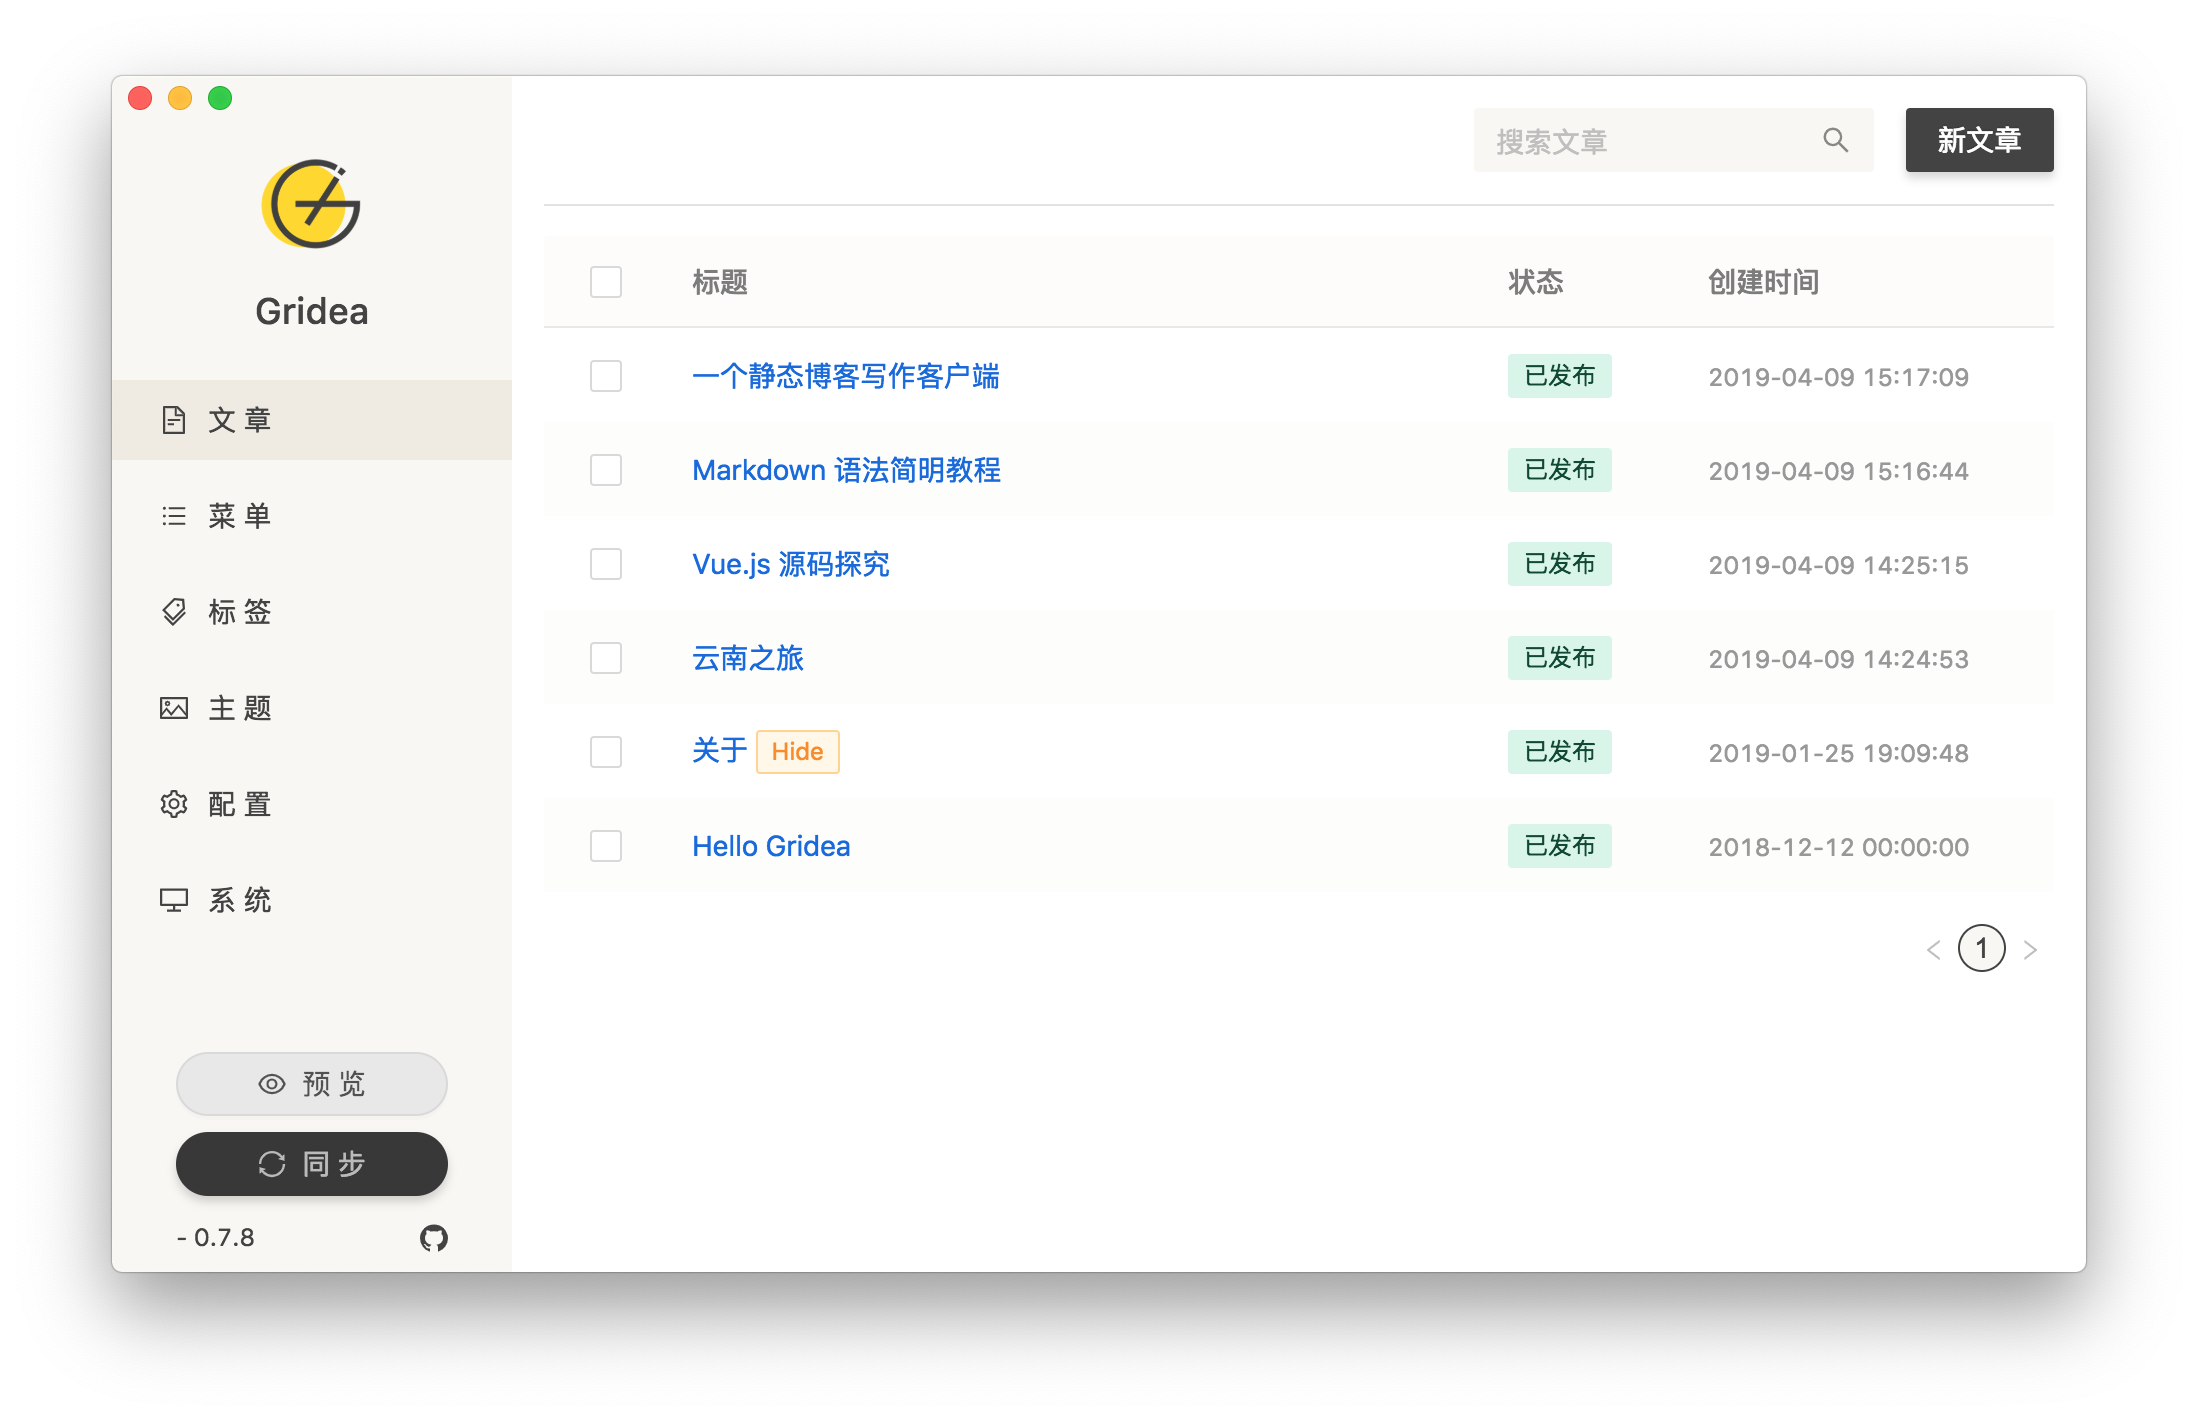
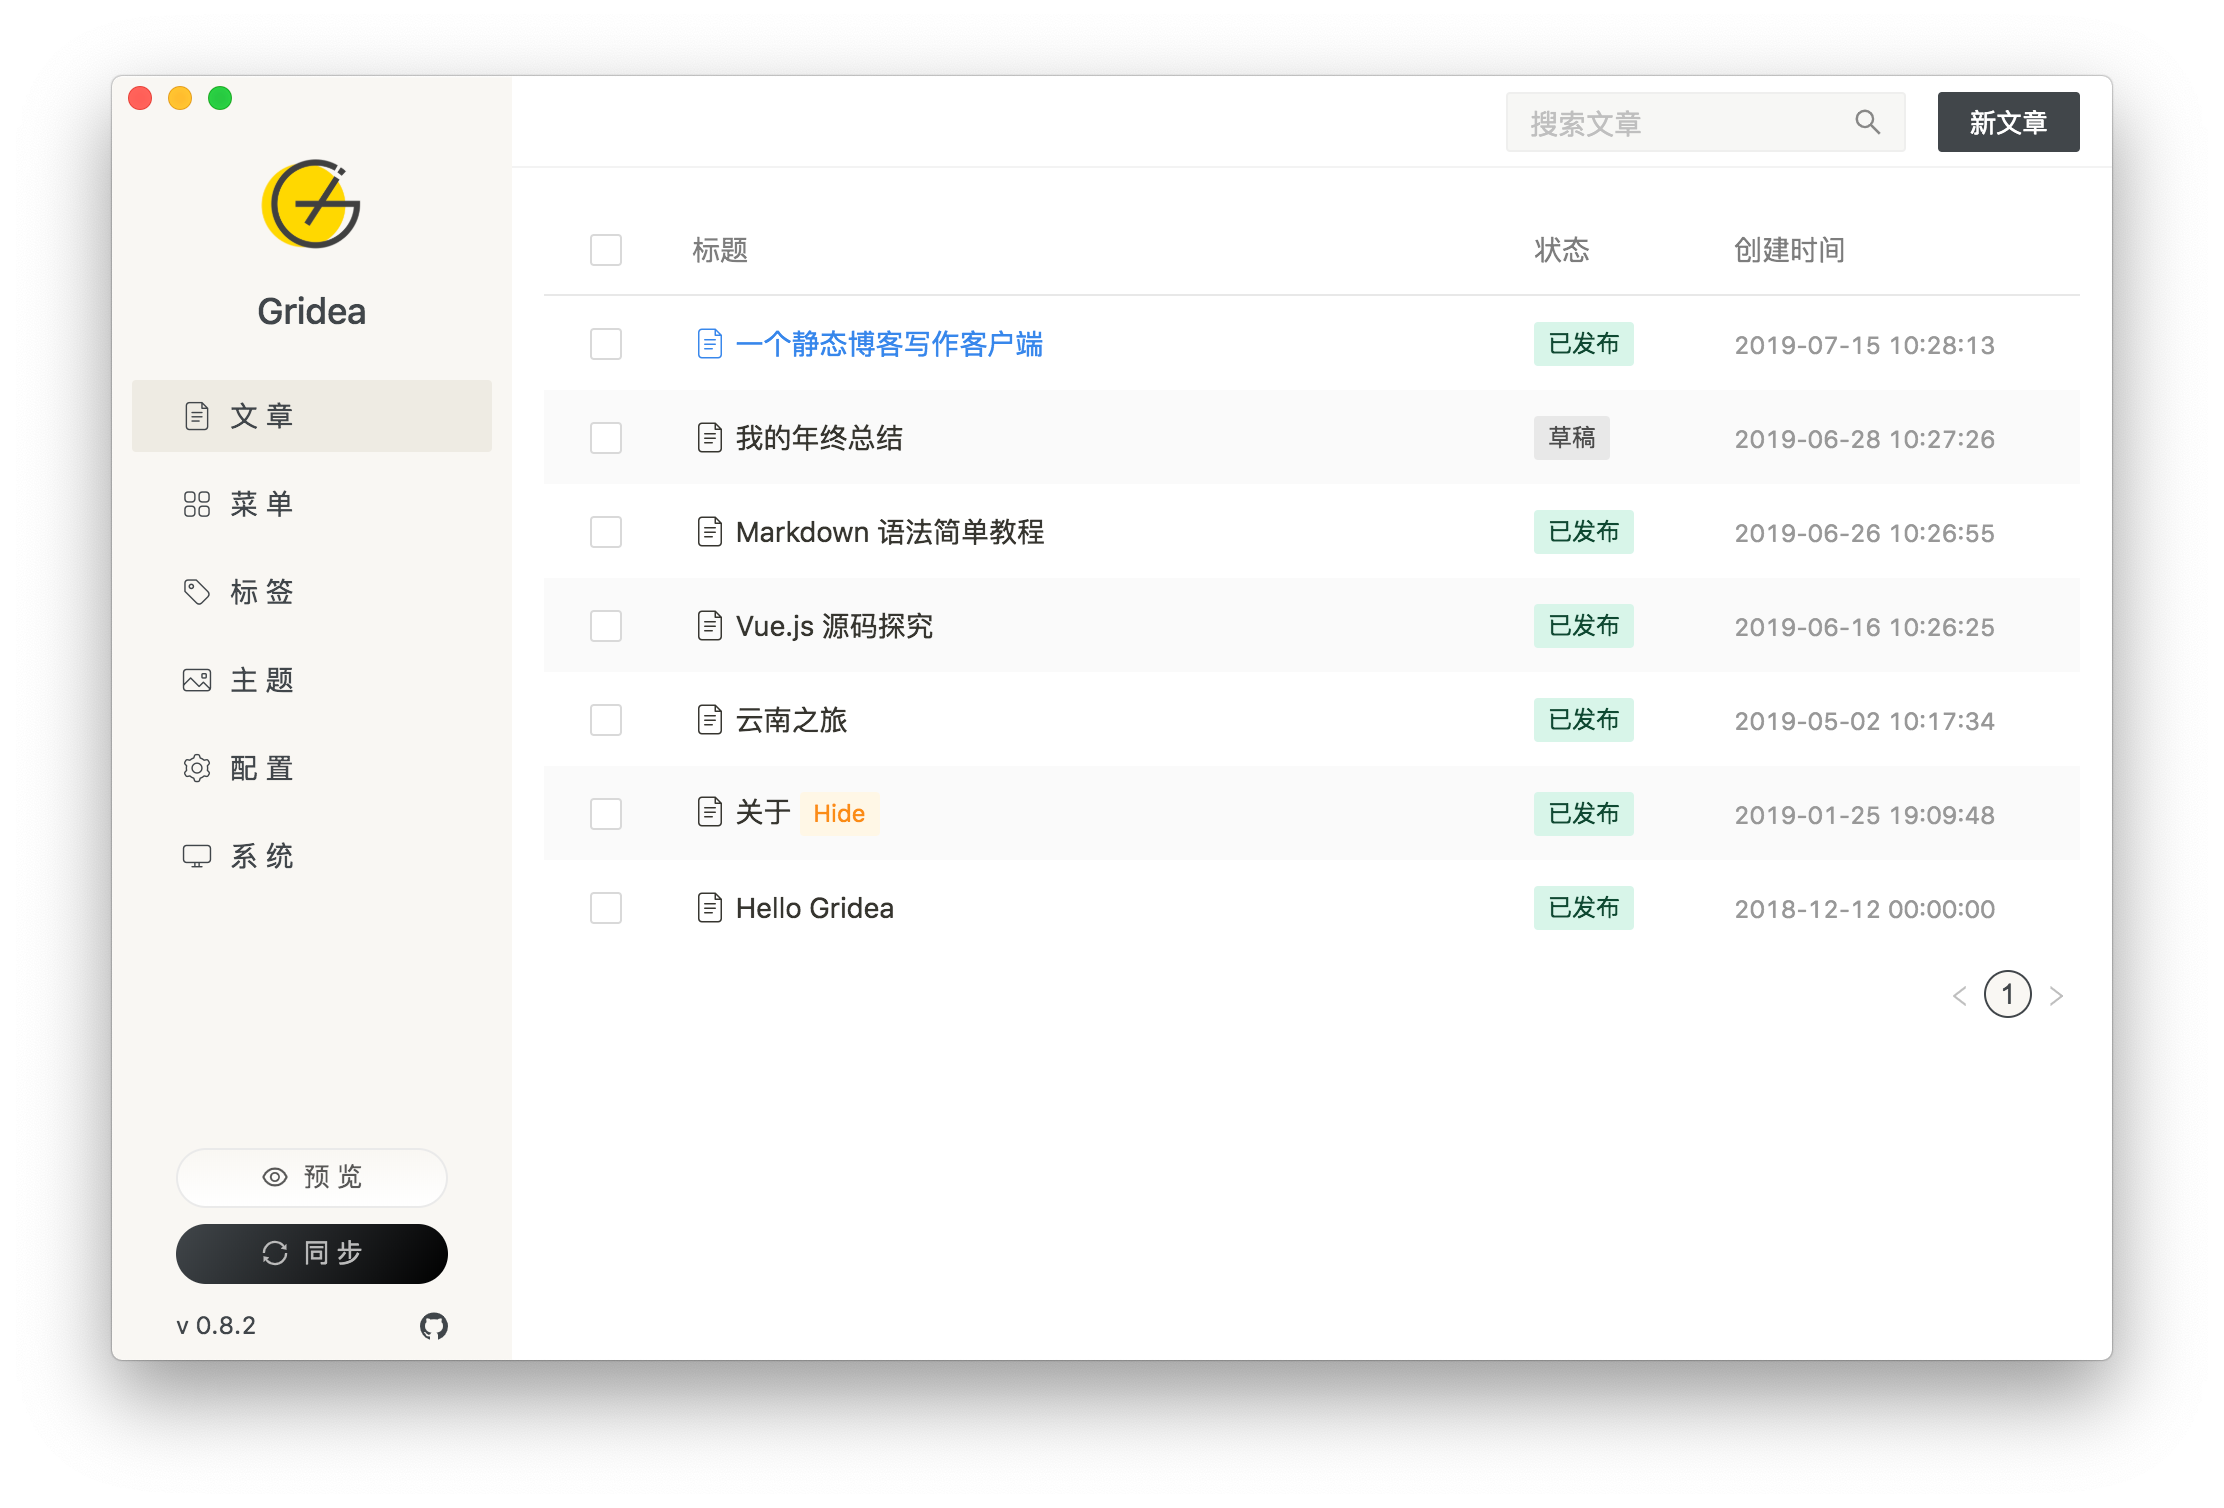
docs: update readme

diff --git a/README.md b/README.md
@@ -26,7 +26,7 @@
 </div>
 
 <div align="center">
-  <img src="gridea-app.png">
+  <img src="gridea-app-en.png">
 
 </div>
 
@@ -42,25 +42,25 @@ English | [简体中文](https://github.com/getgridea/gridea/blob/master/README-
 ✍  **Gridea** A static blog writing client. You can use it to record your life, mood, knowledge, notes and ideas...
 
 ## Features👇
-📝  You can use the coolest  **Markdown** grammar to create quickly  
+📝  Use the coolest  **Markdown** grammar to create quickly  
 
-🌉  You can insert pictures and article cover charts anywhere in the article  
+🌉  Insert pictures and article cover charts anywhere in the article  
 
-🏷  You can label and group articles  
+🏷  Label and group articles  
 
-📋  You can customize menus and even create external link menus  
+📋  Customize menus and even create external link menus  
 
-💻  You can use this client on **Windows** or **MacOS**  
+💻  Use this client on **Windows** or **MacOS**  or **Linux**
 
-🌎  You can use **Github Pages** or **Coding Pages** to show the world that more platforms will be supported in the future  
+🌎  Use **Github Pages** or **Coding Pages** to show the world that more platforms will be supported in the future  
 
-💬  You can simply configure and access the [Gitalk](https://github.com/gitalk/gitalk) or [DisqusJS](https://github.com/SukkaW/DisqusJS) comment system  
+💬  Simply configure and access the [Gitalk](https://github.com/gitalk/gitalk) or [DisqusJS](https://github.com/SukkaW/DisqusJS) comment system  
 
-🇬🇧  You can use **simplified Chinese**、**traditional Chinese**、 **English**
+🇬🇧  Use **simplified Chinese**、**traditional Chinese**、 **English**
 
-🌁  You can use any default theme within the application or any third-party theme, free theme customization  
+🌁  Use any default theme within the application or any third-party theme, free theme customization  
 
-🖥  You can customize the source folder and synchronize multiple devices using OneDrive, iCloud, Dropbox, etc.  
+🖥  Customize the source folder and synchronize multiple devices using OneDrive, iCloud, Dropbox, etc.  
 
 
 🌱  Of course **Gridea** is still very young and has many shortcomings, but please believe it will keep moving forward 🏃

diff --git a/CHANGELOG.md b/CHANGELOG.md
@@ -1,3 +1,25 @@
+## v0.8.2
+
+`2019-07-15`  
+
+## 新增
+- 文章编辑页增加 `Command/Ctrl + S` 快捷键，快速保存文章
+- 增加繁体中文显示 （thanks @joinmouse ）
+- Makrdown 渲染支持 `Mark`、`Sup`、`Abbr`、`Footnote`
+- 侧边栏新增直达站点按钮
+- 增加上一篇文章渲染字段支持 `post.prevPost`
+- 文章增加 Reading Time（阅读时间，例如 `9 min read`） 字段 `post.stats`
+- Markdown 渲染支持设置图片大小，例如：`![test image](https://xxx/xxx.png =100x200)`
+
+## 优化
+- 更新 Electron 版本到 5.0.6，提升应用内菜单切换流畅性，更快了
+- 优化编辑器**编辑体验**与应用内预览样式（**强烈推荐**）
+- 新增文章编辑时可新建标签
+- 提升编辑器的安全性
+- Notes 主题显示优化与增加目录显示（**需手动更新主题**）
+- 应用菜单多语言支持与优化
+
+
 ## v0.8.1
 
 `2019-05-26`  

diff --git a/README-zh_CN.md b/README-zh_CN.md
@@ -49,7 +49,7 @@
 
 📋  你可以自定义菜单，甚至可以创建外部链接菜单  
 
-💻  你可以在 **𝖶𝗂𝗇𝖽𝗈𝗐𝗌** 或 **𝖬𝖺𝖼𝖮𝖲** 设备上使用此客户端  
+💻  你可以在 **𝖶𝗂𝗇𝖽𝗈𝗐𝗌** 或 **𝖬𝖺𝖼𝖮𝖲** 或 **Linux** 设备上使用此客户端  
 
 🌎  你可以使用 **𝖦𝗂𝗍𝗁𝗎𝖻 𝖯𝖺𝗀𝖾𝗌** 或 **Coding Pages** 向世界展示，未来将支持更多平台  
 

diff --git a/public/default-files/posts/hello-gridea.md b/public/default-files/posts/hello-gridea.md
@@ -12,7 +12,7 @@ feature: /post-images/hello-gridea.png
 <!-- more -->
 
 [Github](https://github.com/getgridea/gridea)  
-[Gridea 主页](http://hvenotes.fehey.com/)  
+[Gridea 主页](https://gridea.dev/)  
 [示例网站](http://fehey.com/)
 
 ## 特性👇
